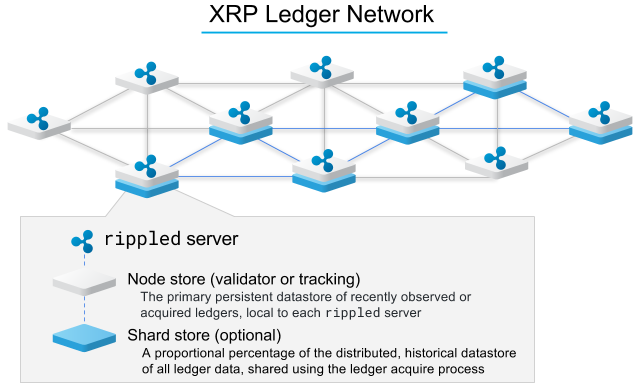
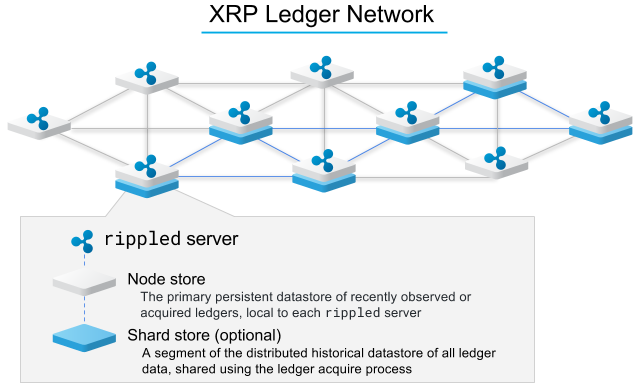
further edits

Changed region(s): [[0.2094, 0.9016, 0.8079, 0.9948], [0.3291, 0.715, 0.5685, 0.7461]]

diff --git a/content/concept-history-sharding.md b/content/concept-history-sharding.md
@@ -10,15 +10,15 @@ Using the history sharding feature, individual `rippled` servers can contribute 
 
 ## Acquiring and Sharing History Shards
 
-Only `rippled` servers that are configured to store history shards acquire history shards. For those servers, acquiring shards begins after synchronizing with the network and backfilling ledger history to the configured number of recent ledgers. During this time of lower network activity, a `rippled` server set to maintain a `shard_db` randomly chooses a shard to add to its shard store. To increase the probability for an even distribution of the network ledger history, shards are randomly selected for acquisition, and the current shard is given no special consideration.
+`rippled` servers acquire and store history shards only if configured to do so. For those servers, acquiring shards begins after synchronizing with the network and backfilling ledger history to the configured number of recent ledgers. During this time of lower network activity, a `rippled` server set to maintain a `shard_db` randomly chooses a shard to add to its shard store. To increase the probability for an even distribution of the network ledger history, shards are randomly selected for acquisition, and the current shard is given no special consideration.
 
-Once a shard is selected, the ledger acquire process begins by fetching the sequence of the last ledger in the shard and working backwards toward the first. The retrieval process begins with the server checking for the data locally. For data that is not available, the server requests data from its peer `rippled` servers. Those servers that have the data available for the requested period respond with their history. The requesting server combines those responses to create the shard. The shard is complete when it contains all the ledgers in a specific range. If the shard store has sufficient disk space after completing a shard, it acquires additional shards.
+Once a shard is selected, the ledger acquire process begins by fetching the sequence of the last ledger in the shard and working backwards toward the first. The retrieval process begins with the server checking for the data locally. For data that is not available, the server requests data from its peer `rippled` servers. Those servers that have the data available for the requested period respond with their history. The requesting server combines those responses to create the shard. The shard is complete when it contains all the ledgers in a specific range.
 
 If a `rippled` server runs out of space before completely acquiring a shard, it stops its retrieval process until it has space available to continue. After that point, the most recently completed shard may replace an older shard. If there is sufficient disk space, the `rippled` server acquires additional randomly selected shards to add to the shard store until reaching the maximum allocated disk space for shards (`max_size_gb`).
 
 ## XRP Ledger Network Data Integrity
 
-The history of all ledgers is shared by servers agreeing to keep particular ranges of historical ledgers. This makes it possible for servers to confirm that they have all the data they agreed to maintain, and produce proof trees or ledger deltas. Sharding also makes it possible to challenge servers to demonstrate they hold the data they claim to have, and verify their proofs.
+The history of all ledgers is shared by servers agreeing to keep particular ranges of historical ledgers. This makes it possible for servers to confirm that they have all the data they agreed to maintain, and produce proof trees or ledger deltas. Since `rippled` servers that are configured with history sharding randomly select the shards that they store, the entire history of all closed ledgers is stored in a normal distribution curve, increasing the probability that the XRP Ledger Network evenly maintains the history.
 
 ## Shard Store Configuration
 
@@ -30,13 +30,13 @@ The following snippet from an example `rippled.cfg` file shows the configuration
 ```
 [shard_db]
 type=NuDB
-path=/Users/rippled/.rippled/db/shards/nudb
+path=/var/lib/rippled/db/shards/nudb
 max_size_gb=50
 ```
 
 **Tip:** Ripple recommends using NuDB for the shard store (`type=NuDB`). NuDB uses fewer file handles per shard than RocksDB. RocksDB uses memory that scales with the size of data it stores, which may require excessive memory overhead.
 
-**Tip:** While both validator and tracking (or stock) `rippled` servers can be configured to use history shard stores, Ripple recommends adding history sharding only for non-validator nodes to reduce overhead for validator nodes. If you run a validator node and want to manage ledger history using sharding, run a separate `rippled` server with sharding enabled.
+**Tip:** While both validator and tracking (or stock) `rippled` servers can be configured to use history shard stores, Ripple recommends adding history sharding only for non-validator nodes to reduce overhead for validator nodes. If you run a validator and want to manage ledger history using sharding, run a separate `rippled` server with sharding enabled.
 
 For more information, reference the `[shard_db]` example in the [rippled.cfg configuration example](https://github.com/ripple/rippled/blob/master/doc/rippled-example.cfg).
 
@@ -44,7 +44,7 @@ For more information, reference the `[shard_db]` example in the [rippled.cfg con
 Determining a suitable size for the shard store involves careful consideration. The following concerns contribute to determining shard store sizing:
 
 - Although redundant, it is possible to hold full ledger history in the node store and the history shard store
-- Each shard of the node store is 2^14 ledgers (16384), which may not be optimal
+- Each shard of the node store is 2^14 ledgers (16384)
 - An effective configuration might limit the node store only to recent history
 - The node store history size should at minimum be twice the ledgers per shard, due to the fact that the current shard may be chosen to be stored and it would be wasteful to reacquire that data
 - The time to acquire, number of file handles, and memory cache usage is directly affected by sizing
